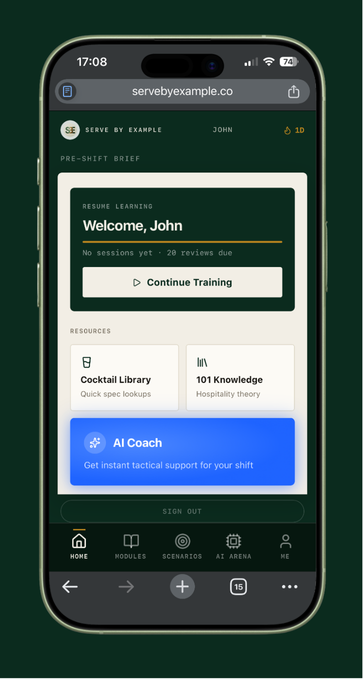
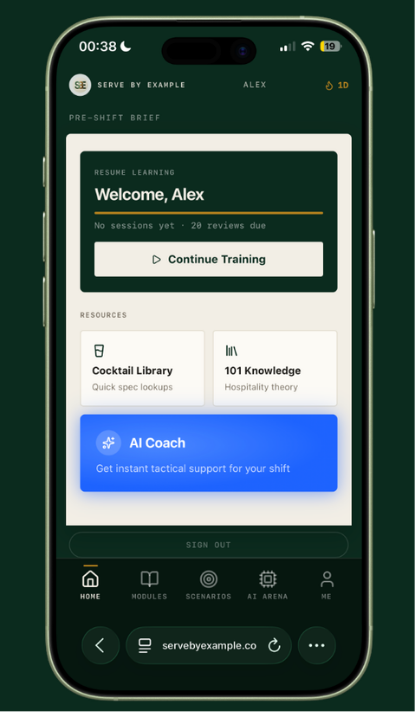
feat: add mobile view alongside training library as two-column layout
Converts full-width product preview to solution-grid with two columns
matching the manager/staff section above. Left: Modules View (training
library), Right: Mobile View3 (train anywhere on any shift). Adds
IcoPhone icon. Also includes updated Mobile View2.png asset.

diff --git a/app/page.tsx b/app/page.tsx
@@ -55,6 +55,15 @@ function IcoLayers({ size = 22 }: { size?: number }) {
   );
 }
 
+function IcoPhone({ size = 22 }: { size?: number }) {
+  return (
+    <svg width={size} height={size} viewBox="0 0 24 24" fill="none" stroke="currentColor" strokeWidth="1.75" strokeLinecap="round" strokeLinejoin="round">
+      <rect x="5" y="2" width="14" height="20" rx="2"/>
+      <circle cx="12" cy="18" r="0.5" fill="currentColor"/>
+    </svg>
+  );
+}
+
 
 // ── Page ──────────────────────────────────────────────────────────────────────
 
@@ -180,23 +189,48 @@ export default function Home() {
           </div>
         </section>
 
-        {/* ── Product Preview (Modules View) ──── */}
-        <section className="section product-preview section-warm">
+        {/* ── Product Preview (Modules + Mobile) ─── */}
+        <section className="section section-warm">
           <div className="container">
-            <div className="solution-col-header" style={{ marginBottom: "1.75rem" }}>
-              <span className="solution-col-icon"><IcoLayers size={20} /></span>
-              <div>
-                <h3>The full training library</h3>
-                <p>All 40 modules across Bartending, Sales, and Management — filter by role, track progress, and certify by topic.</p>
+            <div className="solution-grid">
+
+              {/* Full training library */}
+              <div className="solution-col">
+                <div className="solution-col-header">
+                  <span className="solution-col-icon"><IcoLayers size={20} /></span>
+                  <div>
+                    <h3>The full training library</h3>
+                    <p>All 40 modules across Bartending, Sales, and Management — filter by role, track progress, and certify by topic.</p>
+                  </div>
+                </div>
+                <Image
+                  src="/24 May Jpg's/Modules View.png"
+                  alt="Staff training modules view — full course library"
+                  width={1400}
+                  height={875}
+                  style={{ width: "100%", height: "auto", display: "block" }}
+                />
               </div>
+
+              {/* Mobile — train anywhere */}
+              <div className="solution-col">
+                <div className="solution-col-header">
+                  <span className="solution-col-icon"><IcoPhone size={20} /></span>
+                  <div>
+                    <h3>Train anywhere, on any shift</h3>
+                    <p>The full platform on mobile — staff complete scenarios, quizzes, and modules between shifts without needing a desk or desktop.</p>
+                  </div>
+                </div>
+                <Image
+                  src="/24 May Jpg's/Mobile View3.png"
+                  alt="Mobile training view — hospitality staff learning on phone"
+                  width={700}
+                  height={1000}
+                  style={{ width: "100%", height: "auto", display: "block" }}
+                />
+              </div>
+
             </div>
-            <Image
-              src="/24 May Jpg's/Modules View.png"
-              alt="Staff training modules view — full course library"
-              width={1400}
-              height={875}
-              style={{ width: "100%", height: "auto", display: "block" }}
-            />
           </div>
         </section>
 